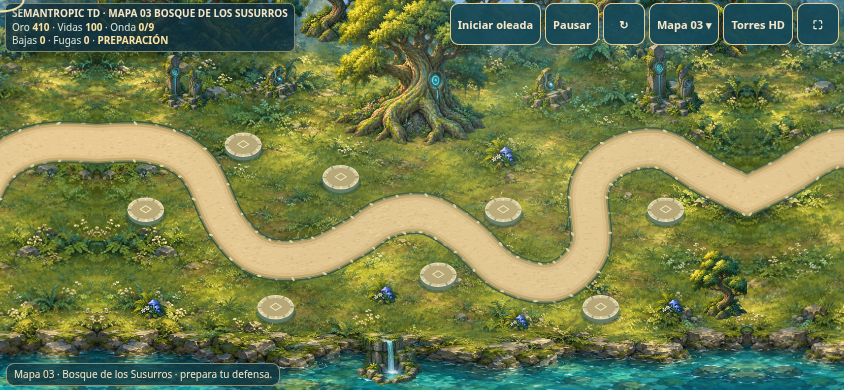
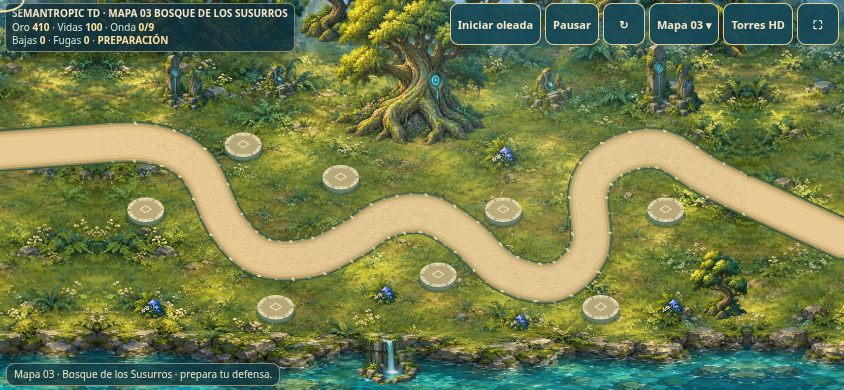
docs(m03): attach final three-viewport QA and tangent-road screenshots

Changed region(s): [[0.8626, 0.3077, 1.0, 0.6769], [0.0, 0.4, 0.1232, 0.5231], [0.0, 0.3077, 0.1232, 0.3692]]

diff --git a/docs/blocks/m03/evidence/README.md b/docs/blocks/m03/evidence/README.md
@@ -1,13 +1,13 @@
 # Evidencia auténtica M03
 
-Fecha: 23-oct-2026. Base de producción: `0e85c3a393c5d3e5223520f7dc863b2abc7203cc`. Port funcional inicial: `2c21dacdc301e9045973aab3b589f4841fa25313`. La corrección posterior de tangentes del panorama está trazada en el PR; no cambia el core.
+Fecha: 23-oct-2026. Base de producción: `0e85c3a393c5d3e5223520f7dc863b2abc7203cc`. Código final probado: `97d16cbb4d06cc8123fbb5b04318005a110db420` (core, arte, panorámica y tests). Los commits posteriores de evidencia no cambian el runtime.
 
 - **ANTES_SELECTOR_OFICIAL.png**: Chromium real, URL pública oficial antes de publicar M03, 1280×768. Solo aparecen M01/M02. Transporte HTTPS mediante `route.fetch` con verificación TLS; sin desactivar certificados ni sustituir respuestas.
 - **PLANO_CANONICO.png**: plano técnico de los 188 puntos/ocho pads, no una captura de un M03 jugable anterior.
-- **DESPUES_1280/844/932.png**: Phaser WebGL2 real del build local, actualizadas tras corregir tangentes en las franjas panorámicas. No son mockups ni imágenes de generación presentadas como juego.
-- **COMBATE_OLEADA_09_932.png**: checkpoint del núcleo real de la novena oleada, con presupuesto legal, escena Phaser renderizada. Es anterior a la corrección exclusivamente visual de las franjas laterales; comparte core, actores y geometría del commit final.
-- **AMBIENTE_A/B_844.png**: dos fotogramas de escena real separados por reanudación del reloj; la prueba también verifica que ambiente y core se congelan durante pausa. Esta secuencia local precede la corrección de franjas; CI del último commit vuelve a generar las secuencias finales.
-- **browser-report.json**: tres perfiles completos Chromium/WebGL2, nueve oleadas/101 spawns por perfil, compra/mejora/venta/rally, victoria, derrota, récord, ocho pads, navegación, orientación y reducción de movimiento. El runner pasó antes del último ajuste de panorámica; se ejecutó además smoke visual final en los tres tamaños. El CI del commit funcional final, enlazado en el PR, vuelve a ejecutar la matriz y conserva todos los screenshots finales; las ejecuciones anteriores fueron sustituidas al pulir la continuidad del panorama.
+- **DESPUES_1280/844/932.png**: Phaser WebGL2 real del build local final `97d16cb`, con continuidad por tangentes en las franjas panorámicas. No son mockups ni imágenes de generación presentadas como juego.
+- **COMBATE_OLEADA_09_932.png**: checkpoint del núcleo real de la novena oleada, con presupuesto legal, escena Phaser renderizada. Capturado tras corregir las franjas laterales, sobre el código final.
+- **AMBIENTE_A/B_844.png**: dos fotogramas de escena real separados por reanudación del reloj; la prueba también verifica que ambiente y core se congelan durante pausa. Secuencia del código final.
+- **browser-report.json**: tres perfiles completos Chromium/WebGL2, nueve oleadas/101 spawns por perfil, compra/mejora/venta/rally, victoria, derrota, récord, ocho pads, navegación, orientación y reducción de movimiento. El runner final pasó en los tres tamaños, incluyendo muestreo de píxeles en ambos extremos para validar el sendero prolongado por tangente. [CI 39948103757](https://github.com/Danielsanchezdesarrolador/semantropic-td-phaser-lab/actions/runs/39948103757) ejecuta además la batería completa sobre `97d16cb` y conserva sus screenshots; las ejecuciones anteriores fueron sustituidas al pulir la panorámica.
 - **core-qa.json**: prueba Node sin muertes ni fondos forzados; estado final y detalle por oleada.
 - **estrategias-mixtas.jsonl**: cuatro partidas reales del núcleo, una torre Infantería y siete Francotiradores, compras/mejoras solo con saldo; cuatro victorias, contactos melee y ataques ranged de enemigos efectivos.
 - **regresiones-locales.log**: R7 M01, R6 M02, M02 siete oleadas y viewport R4/R5, runners existentes con assertions conservadas.
